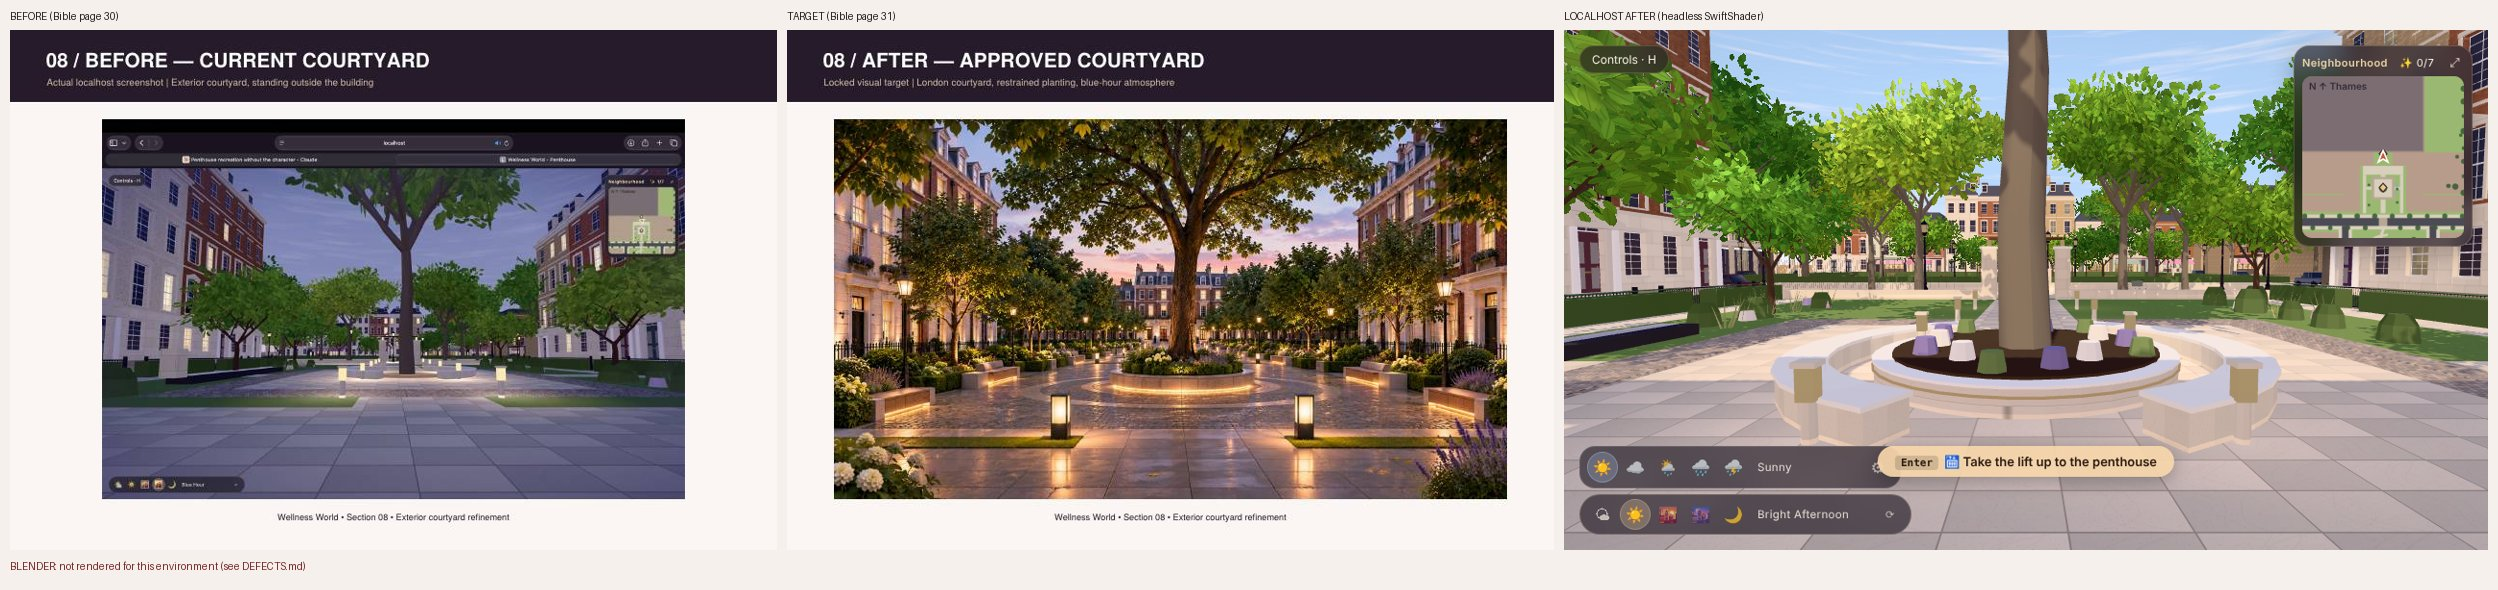
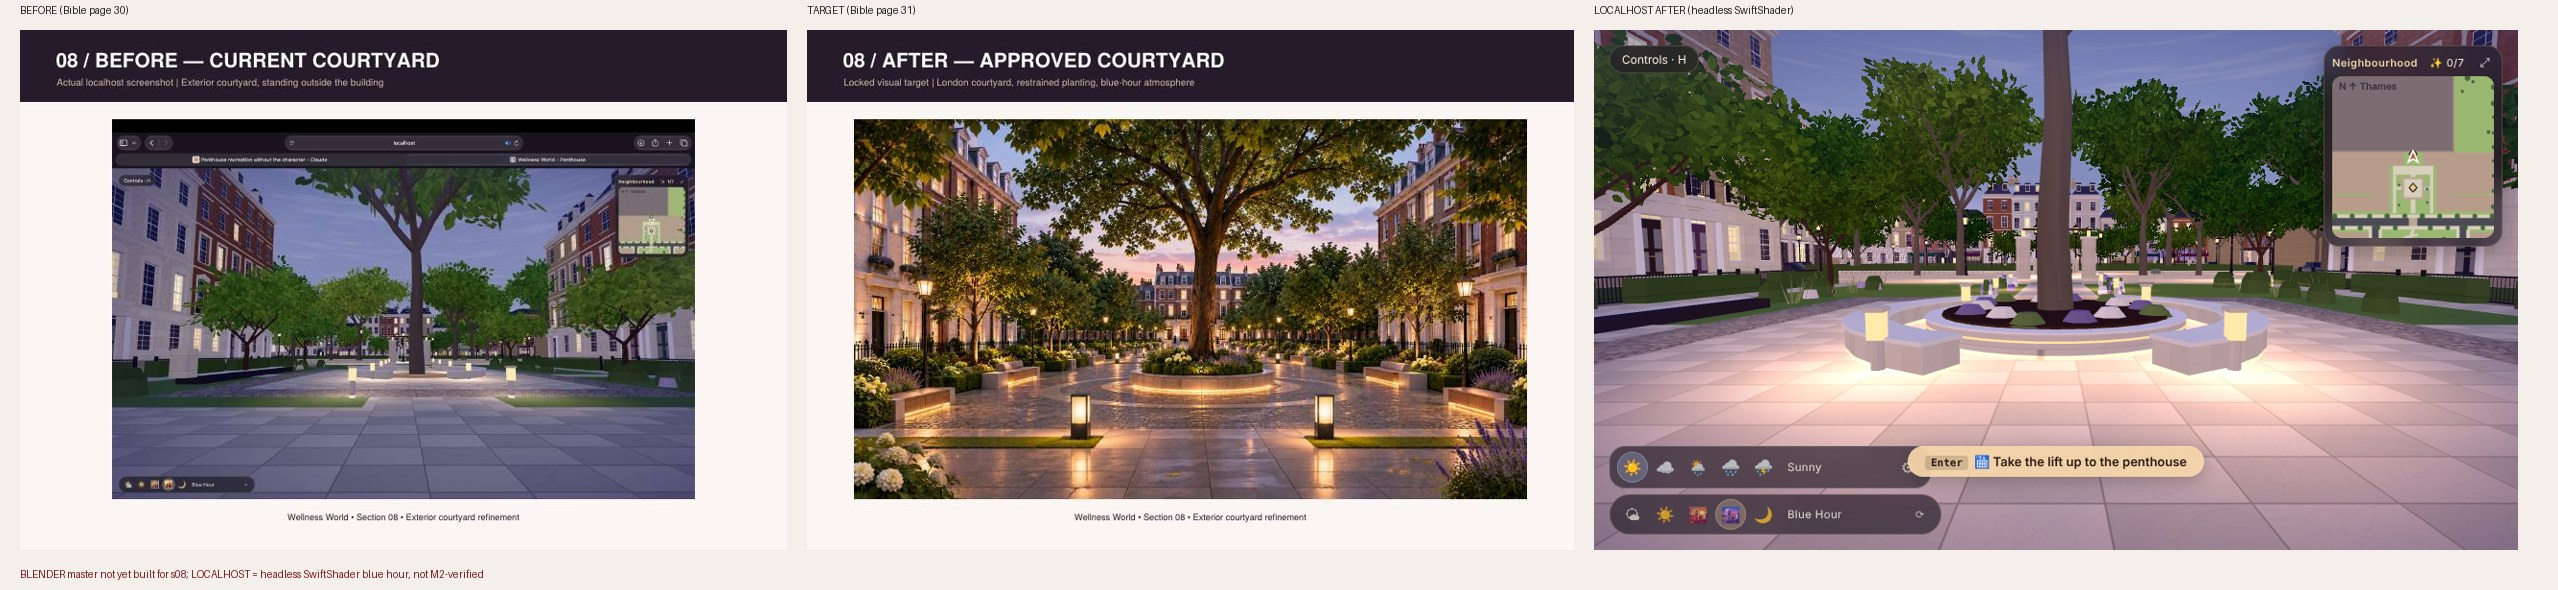
s08/s09: blue-hour evidence sheets + status
Claude-Session: https://claude.ai/code/session_017ZtboRbFUCo4FCo9fUW3pH

diff --git a/docs/bible/S08_S09_STATUS.md b/docs/bible/S08_S09_STATUS.md
@@ -1,0 +1,6 @@
+# s08 Courtyard / s09 Fountain (2026-11-12)
+Evidence: `evidence/s08_courtyard.jpg`, `evidence/s09_fountain.jpg` (blue hour, headless; not M2-verified; not claimed approved).
+- Both now shot at the Bible's blue-hour atmosphere (previous sheets were afternoon).
+- s08: composition matches p.31 (tree, bollard lanterns, framing townhouses, glowing ring). Added cream/lavender planting clumps along path edges (small prisms; read as stylised mounds).
+- s09: fountain apron ringed by low green/lavender mounds; fountain still small/pale vs p.36's three-tier cascading lit fountain.
+Open: real modelled hydrangea/lavender (Blender), wet reflective paving, uplit benches, richer window glow, bigger/more detailed fountain (Blender), Blender masters.
